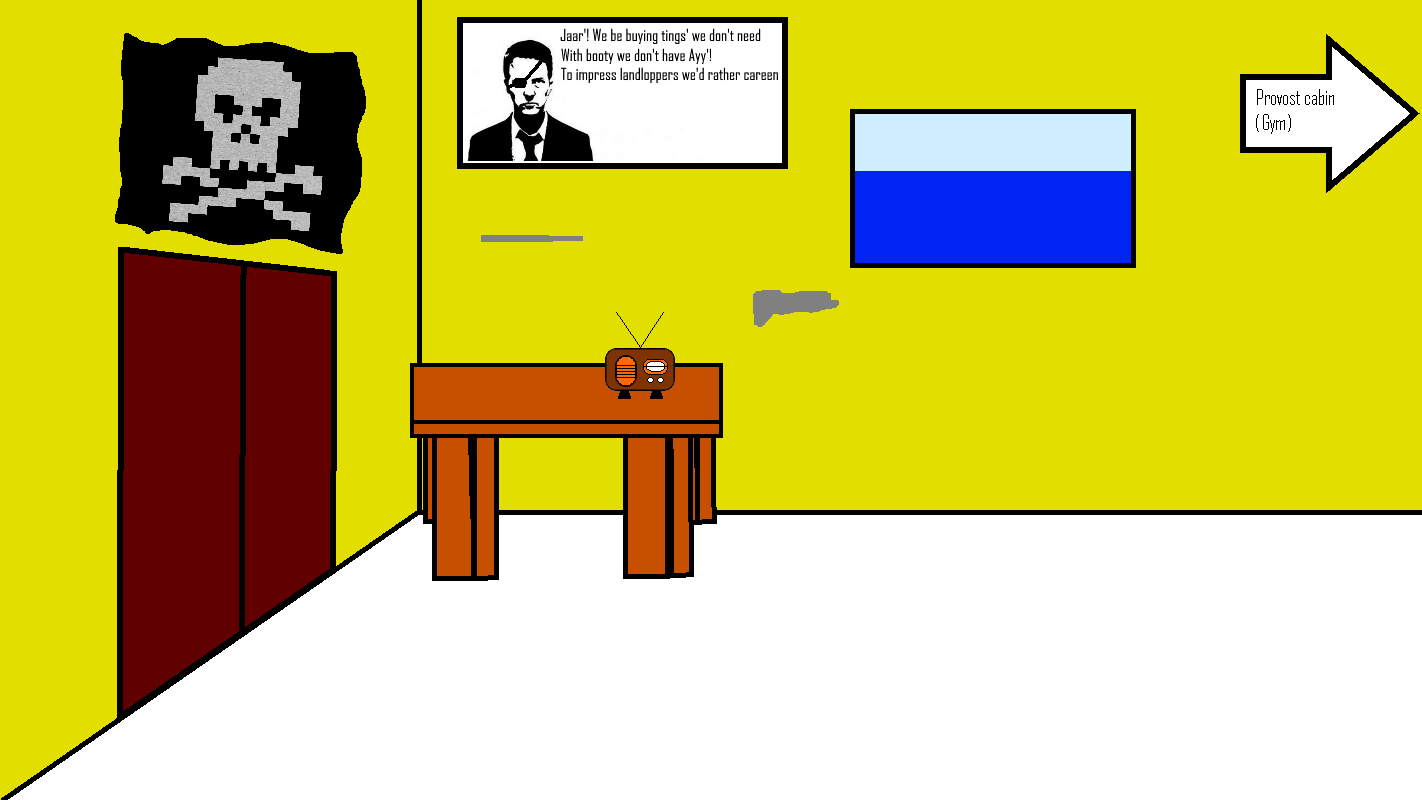
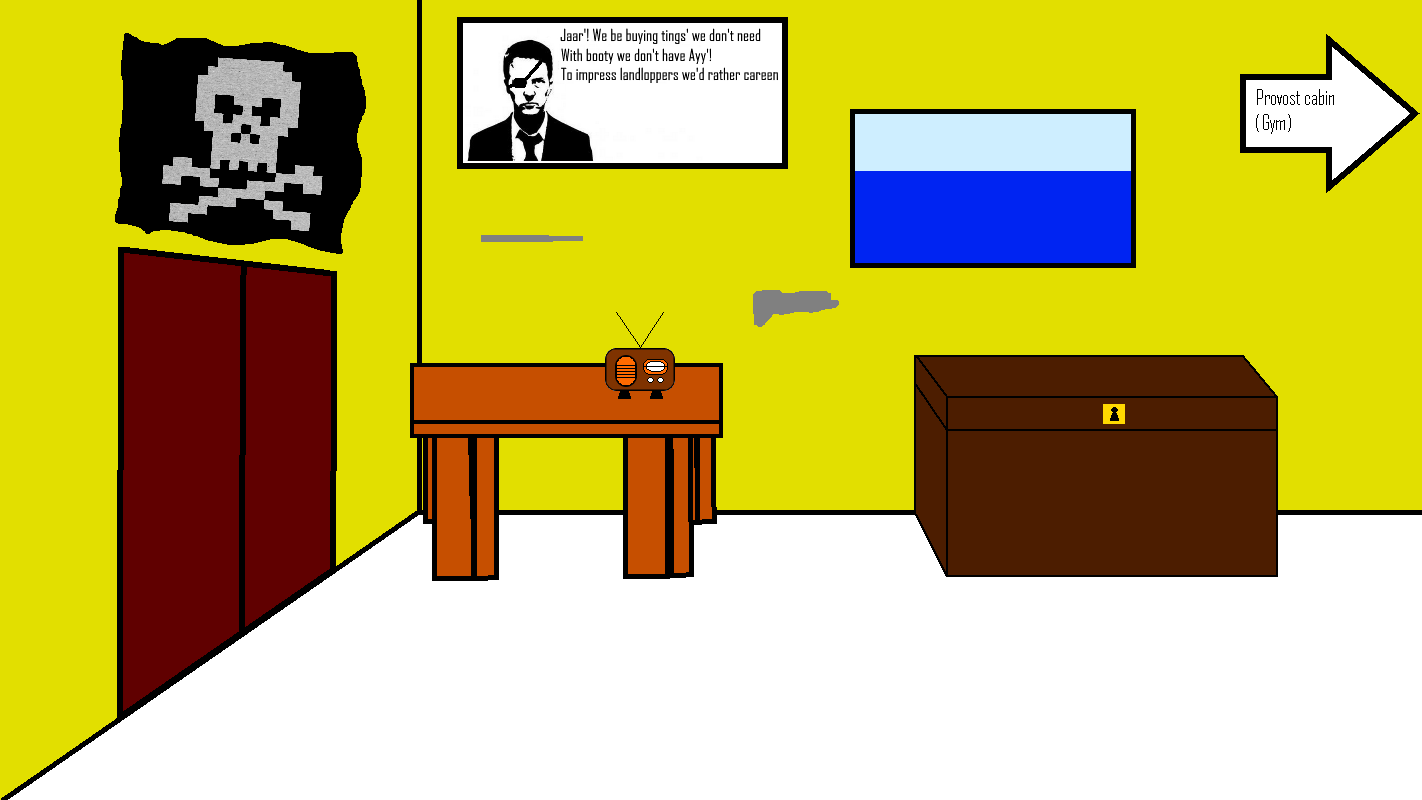
Minor draw inventory Tweaks. new headquarter sprite

Changed region(s): [[0.6188, 0.4375, 0.8973, 0.7188]]

diff --git a/FrameworksProjekt/GameWorld.cs b/FrameworksProjekt/GameWorld.cs
@@ -234,7 +234,7 @@ namespace FrameworksProjekt
             GameObjectDirector GOD = new GameObjectDirector(new PlayerBuilder());
             gameObjects.Add(GOD.Construct());
 
-            LevelDirector LD  = new LevelDirector(new WorldMapBuilder());
+            LevelDirector LD  = new LevelDirector(new HeadQuartersBuilder());
             gameLevel = LD.Construct();
 
             this.Colliders = new List<Collider>();
@@ -394,7 +394,7 @@ namespace FrameworksProjekt
         {
             int height = 100;
             int width = 80;
-            Vector2 startPos = new Vector2(800, 300);
+            Vector2 startPos = new Vector2(900, 200);
 
             for(int i = 0; i < mainInventory.Items.Count; i++)
             {

diff --git a/FrameworksProjekt/Builder/HeadQuartersBuilder.cs b/FrameworksProjekt/Builder/HeadQuartersBuilder.cs
@@ -20,7 +20,7 @@ namespace FrameworksProjekt.Builder
         {
             l = new Level("Headquarters", new Vector2(350, 500), new Tuple<int, int>(240, -100));
             l.InterestPoints.Add(new Rectangle(240, 400, 10, 200), () => DirectoryAction());
-            l.InterestPoints.Add(new Rectangle(800, 300, 400, 400), () => Inventory());
+            l.InterestPoints.Add(new Rectangle(900, 300, 400, 400), () => Inventory());
             l.InterestPoints.Add(new Rectangle(1400, 300, 100, 400), () => DirectoryAction2());
         }
 
